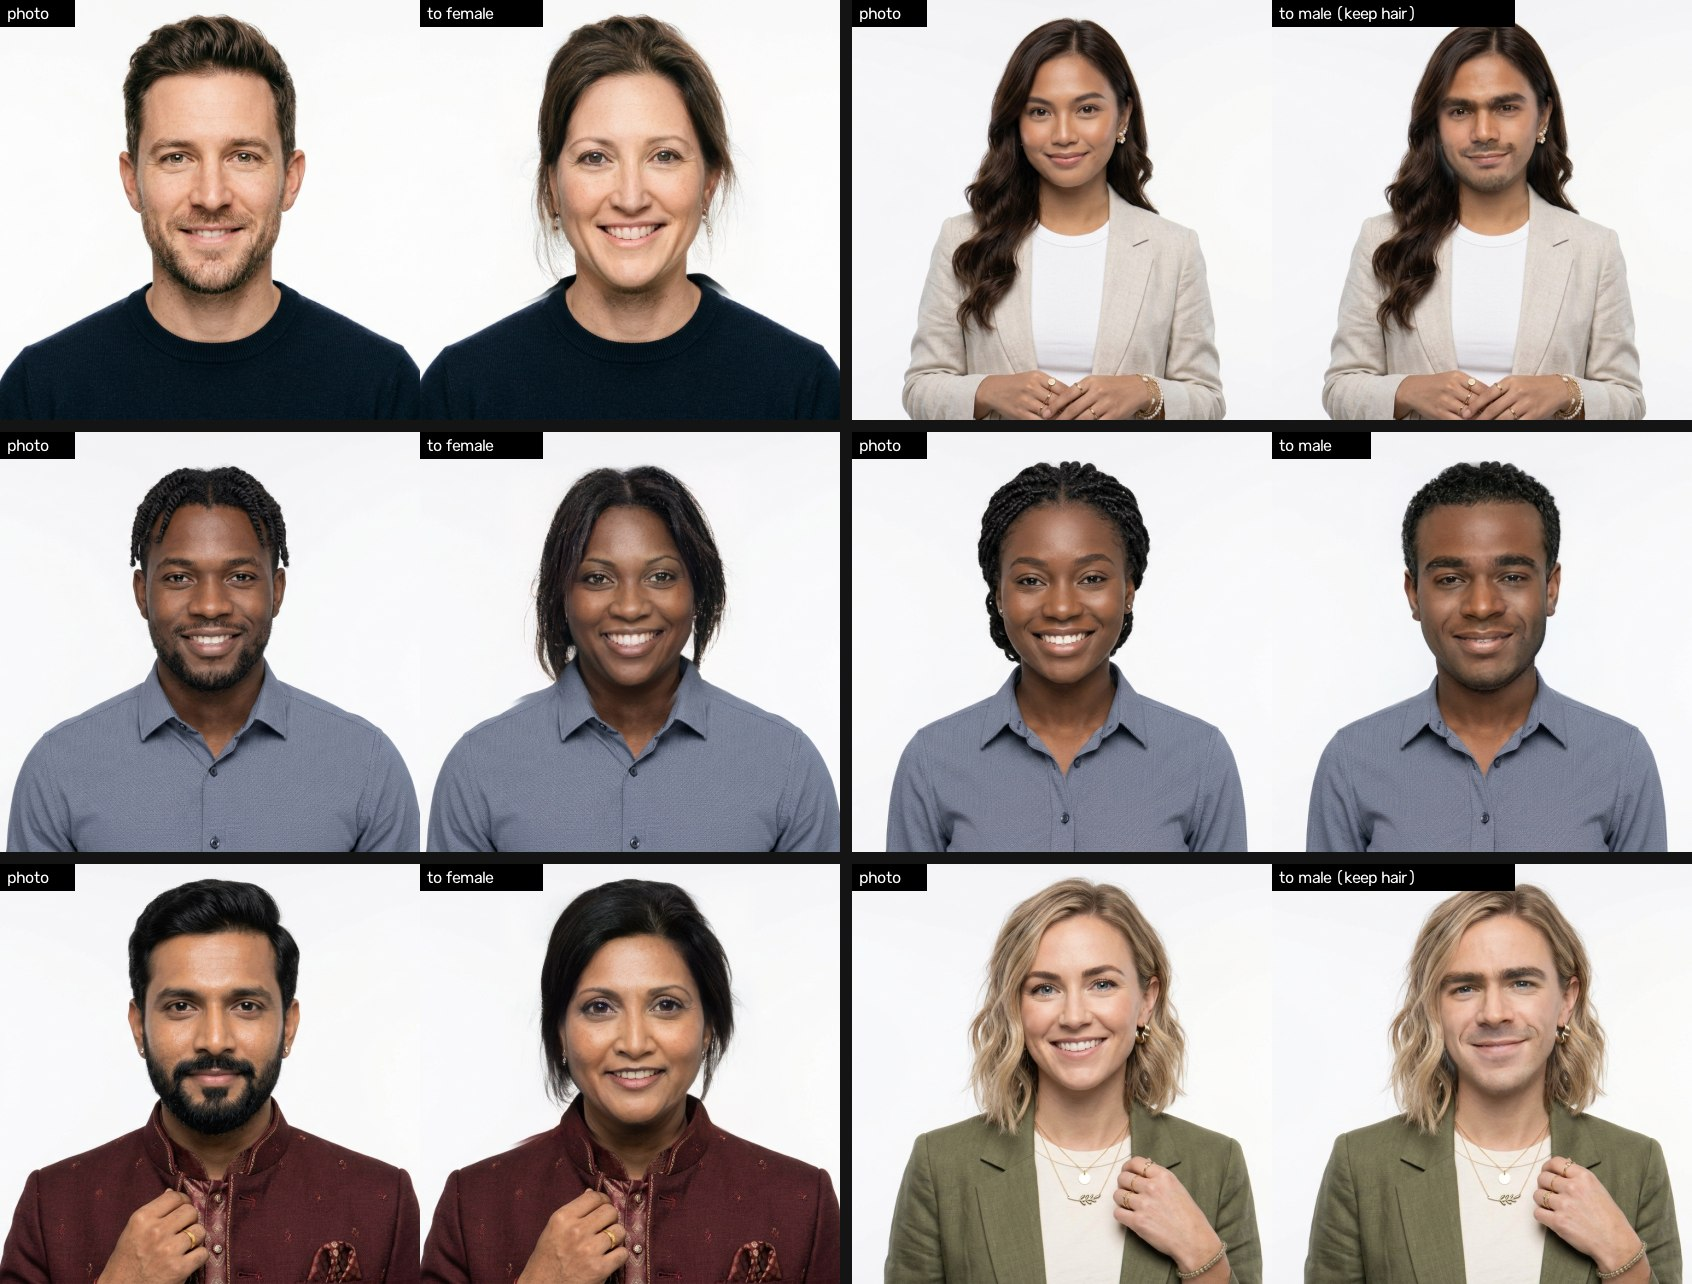
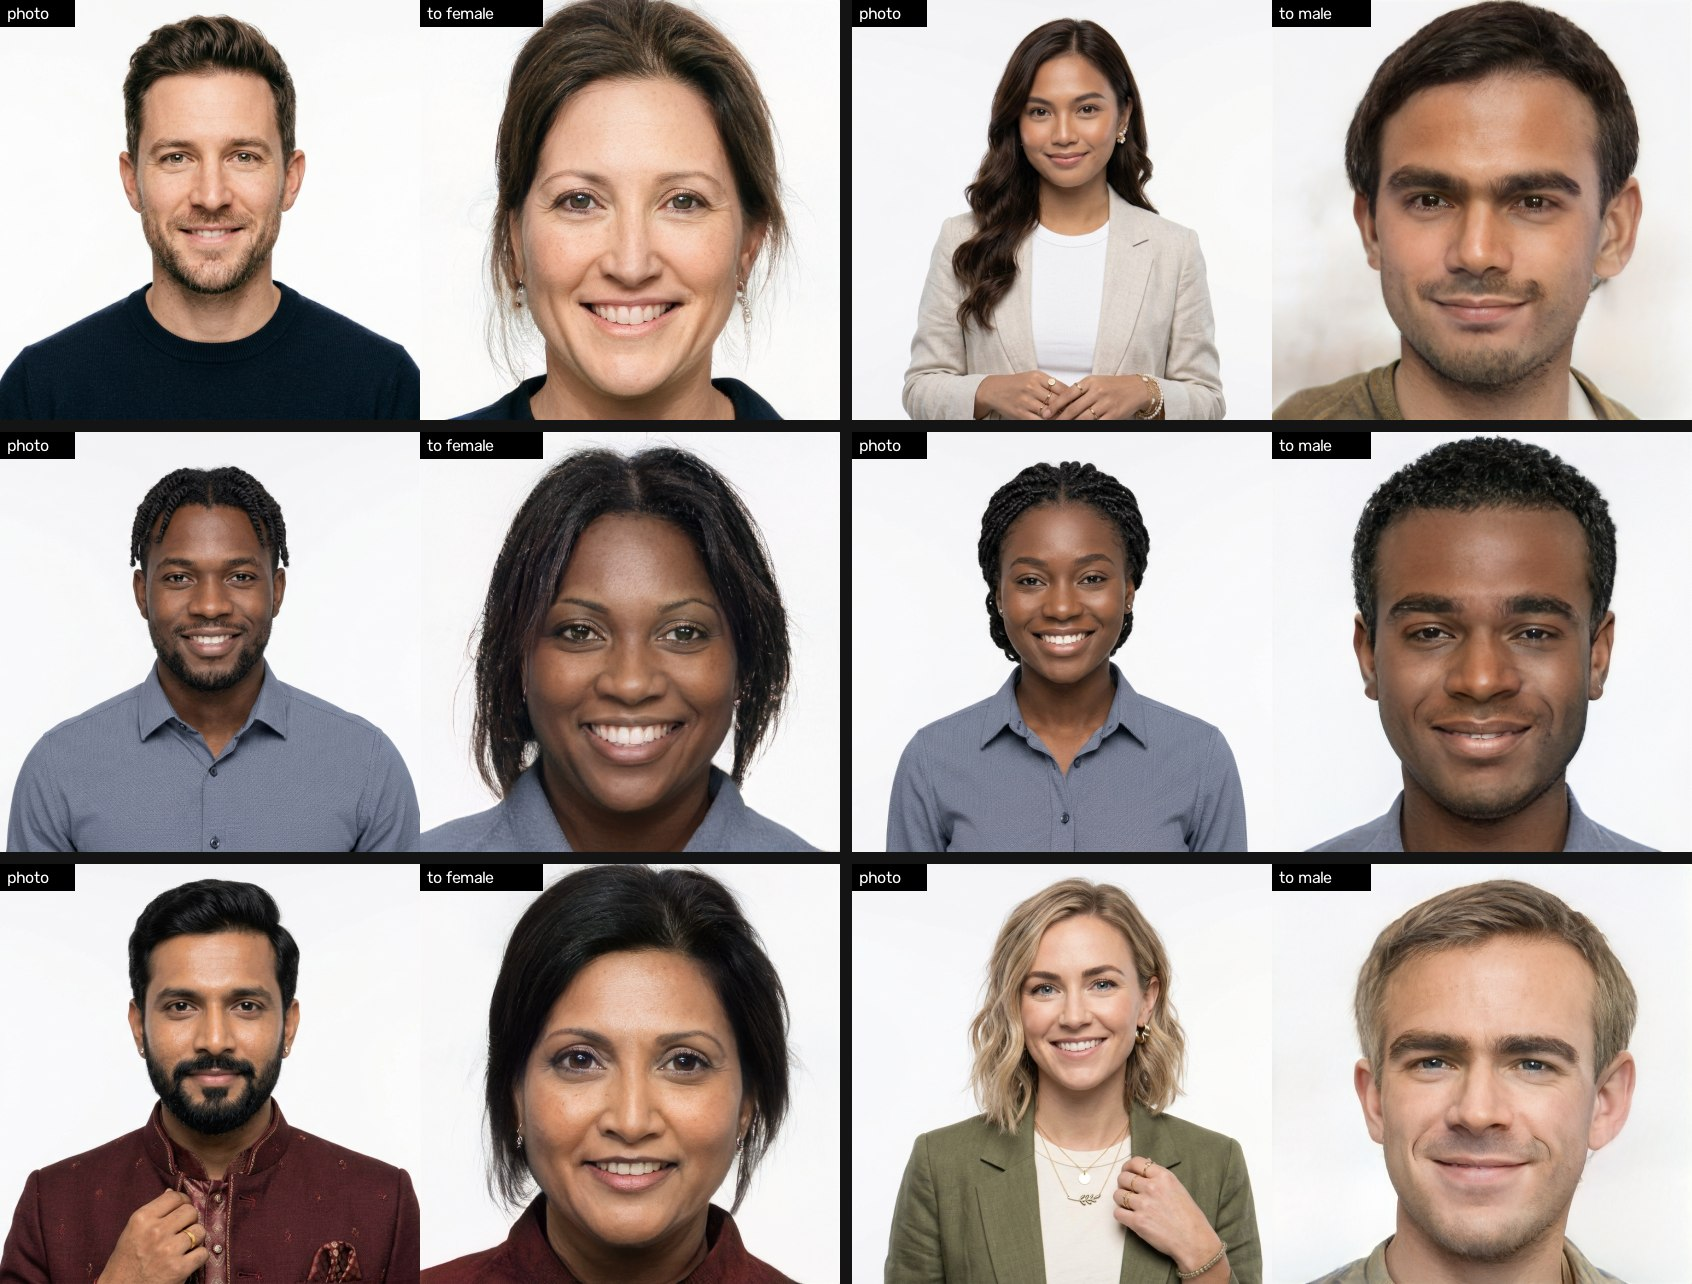
Samples: the swapped face frames (the default result)

Changed region(s): [[0.2459, 0.0, 0.5225, 1.0], [0.7376, 0.0, 1.0, 1.0]]

diff --git a/index.html b/index.html
@@ -37,7 +37,7 @@
 <main class="wrap">
   <section id="samples">
     <h2>What it looks like</h2>
-    <p>Each pair: the photo and its swap, at Balanced quality. Two of them keep their own hair (Result: Photo, own hair). Every face is an AI-generated person who doesn't exist. Click to enlarge.</p>
+    <p>Each pair: the photo and its swapped face frame, at Balanced quality. Every face is an AI-generated person who doesn't exist. Click to enlarge.</p>
     <figure class="sheet"><img id="sheet" src="assets/tiresias_samples.jpg" alt="Six photos, each next to its gender swap" width="1692" height="1284" loading="lazy"></figure>
   </section>
 

diff --git a/README.md b/README.md
@@ -15,7 +15,7 @@
 
 **Website:** https://cursedprograms.github.io/Changeling-Tiresias/
 
-![Six photos, each next to its gender swap: three men to women, three women to men](assets/tiresias_samples.jpg)
+![Six photos, each next to its gender-swapped face frame: three men to women, three women to men](assets/tiresias_samples.jpg)
 
 *Part of the Changeling family, all together in [Changeling Studio](https://github.com/CursedPrograms/Changeling-Studio):
 [CopyCat](https://github.com/CursedPrograms/Changeling-CopyCat) (face swap, photos and video) ·
